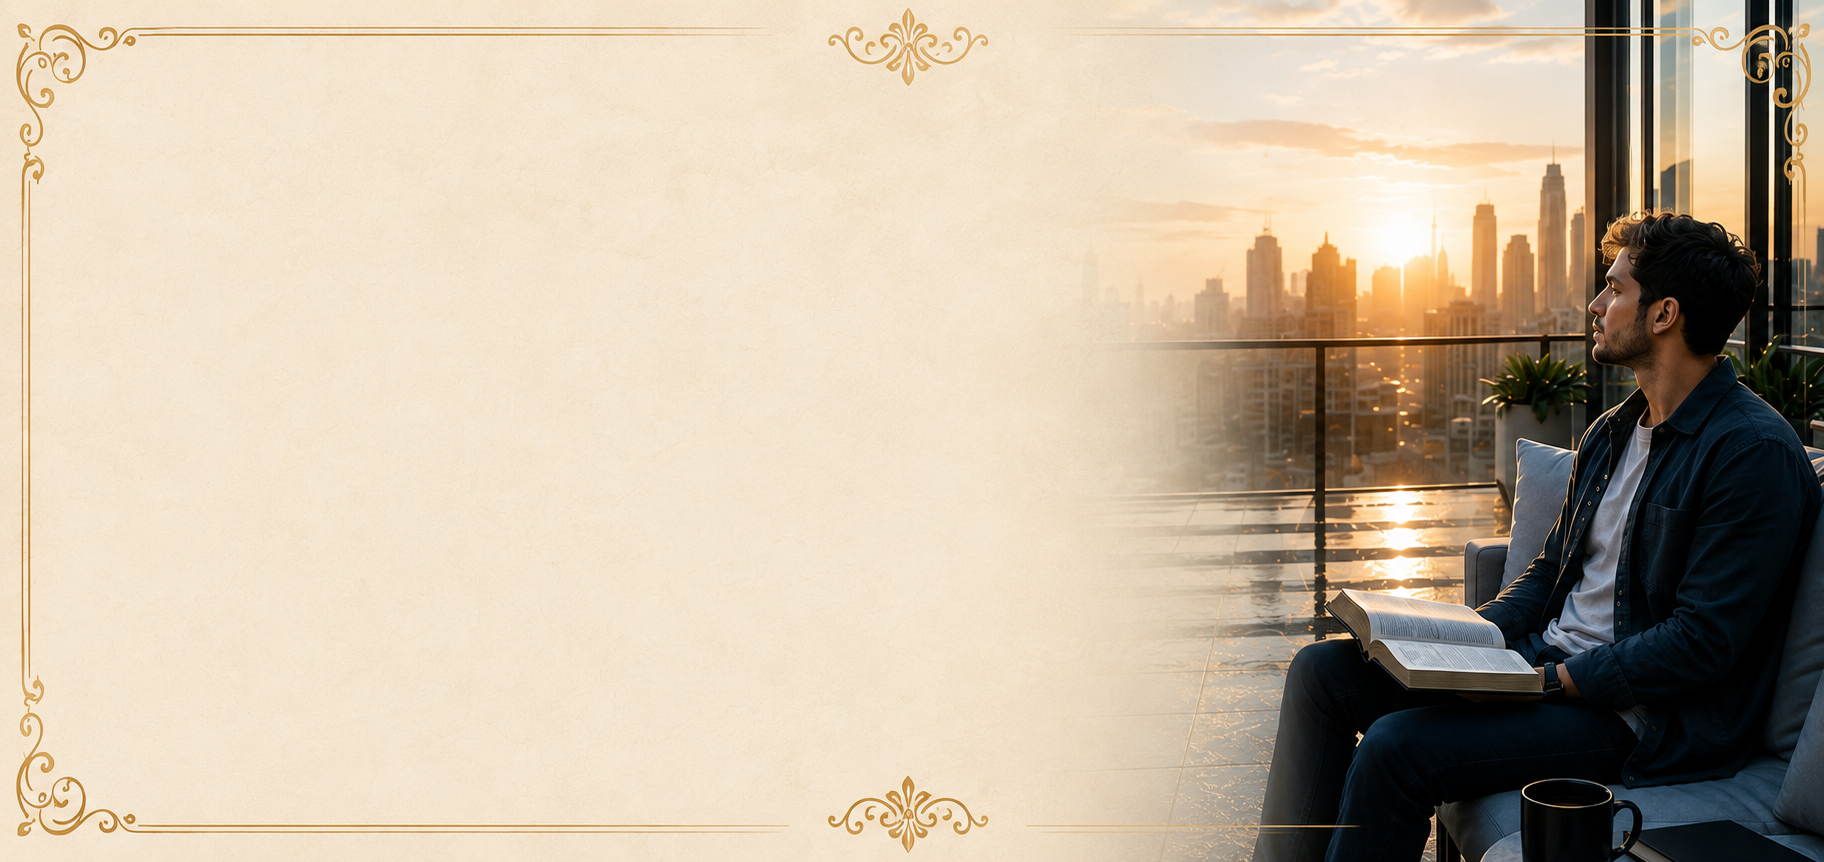
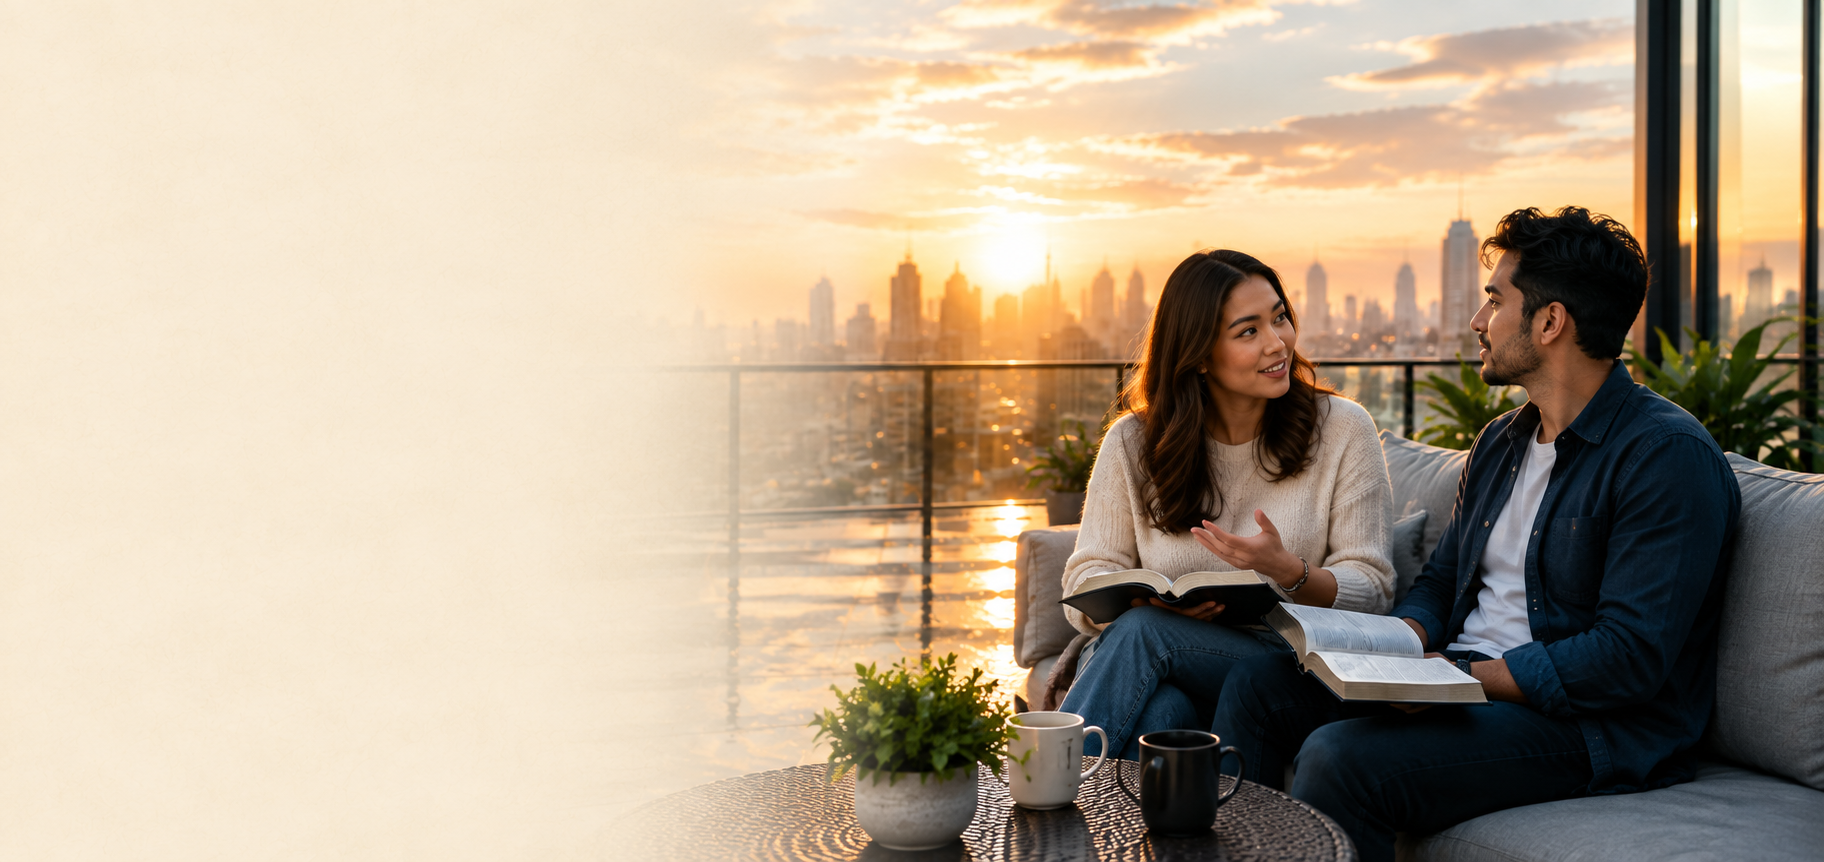
change background

diff --git a/index.html b/index.html
@@ -11,14 +11,14 @@
 <meta property="og:description" content="A simple place to pause, reflect, and draw closer to God each day. Each day brings a Bible verse, a short reflection, and an encouraging message to remind us that God's grace is sufficient for today and that there is always hope for tomorrow." />
 
 <!-- Image Meta Tags -->
-<meta property="og:image" content="https://dailygrace.faith/media/banner/september/daily-grace-2026-09-11.webp" />
+<meta property="og:image" content="" />
 <meta property="og:image:width" content="1200" />
 <meta property="og:image:height" content="630" />
 
 
 <title>Daily Grace 365</title>
 <link rel="icon" type="image/x-icon" href="favicon.ico">
-<link rel="stylesheet" href="assets/styles/styles.css?v=20260905-4">
+<link rel="stylesheet" href="assets/styles/styles.css?v=20260911-1">
 </head>
 
 <body>

diff --git a/assets/styles/styles.css b/assets/styles/styles.css
@@ -37,7 +37,7 @@ body {
   align-items: center;
   background:
     linear-gradient(90deg, rgba(251,245,233,.92) 0%, rgba(251,245,233,.72) 48%, rgba(251,245,233,.22) 100%),
-    url("../images/hero.png") center 22% / cover no-repeat;
+    url("../images/hero.png?v=22437f8d40b3") center 22% / cover no-repeat;
   border-bottom: 1px solid var(--line);
 }
 
@@ -471,7 +471,7 @@ footer {
     overflow: hidden;
     background:
       linear-gradient(90deg, rgba(251,245,233,.72) 0%, rgba(251,245,233,.42) 58%, rgba(251,245,233,.12) 100%),
-      url("../images/hero.png") 76% center / cover no-repeat;
+      url("../images/hero.png?v=22437f8d40b3") 76% center / cover no-repeat;
   }
   .hero-overlay {
     position: static;
